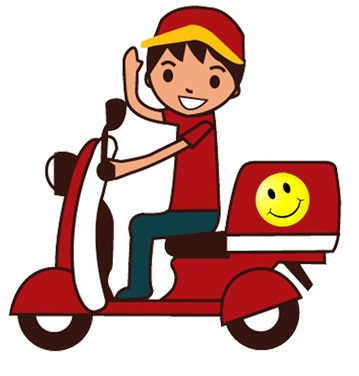
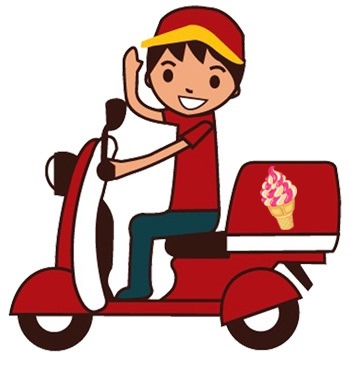
Version 3.6
Updated services.html with modified images

Updated About

Changed region(s): [[0.7047, 0.4388, 0.8886, 0.6144]]

diff --git a/index.html b/index.html
@@ -176,7 +176,7 @@ Ice Cream offers a wide array of gluten free products, in fact the majority of o
     <br />
       <div class="text">We are an independent ice-cream and desserts café based in Singapore. With the <strong>large variety of flavours</strong> to choose from that will keep you on the ball thinking on what to get, we assure you a <strong>unique experience</strong> eating in our cafe. </div>
       <br />
-      <div class="text">Our goal here in DiazePam cafe is for you to leave the store wishing to come back again.</div></td>
+      <div class="text">Our goal here in DiazePam Café is for you to leave the store wishing to come back again.</div></td>
       <td width="10%"></td>
     <td width="30%"><img src="images/icecream_parlour.jpg" width="526" height="350" /></td>
     <td width="10%">&nbsp;</td>

diff --git a/services.html b/services.html
@@ -47,7 +47,7 @@
   <p><h2><div class="more"><a href="form.html">Click here to order online.</a></div></h2></p>
   <br />
 <h3>Party planners – with free flow of ice-cream (NEW!) </h3>
-  <img src="images/party.jpg"/>
+  <img src="images/party.png"/>
 <p>Hire party planners and get experience with free flow of ice-cream.</p>
   <p>Party planner cost - $120</p>
   <br />
